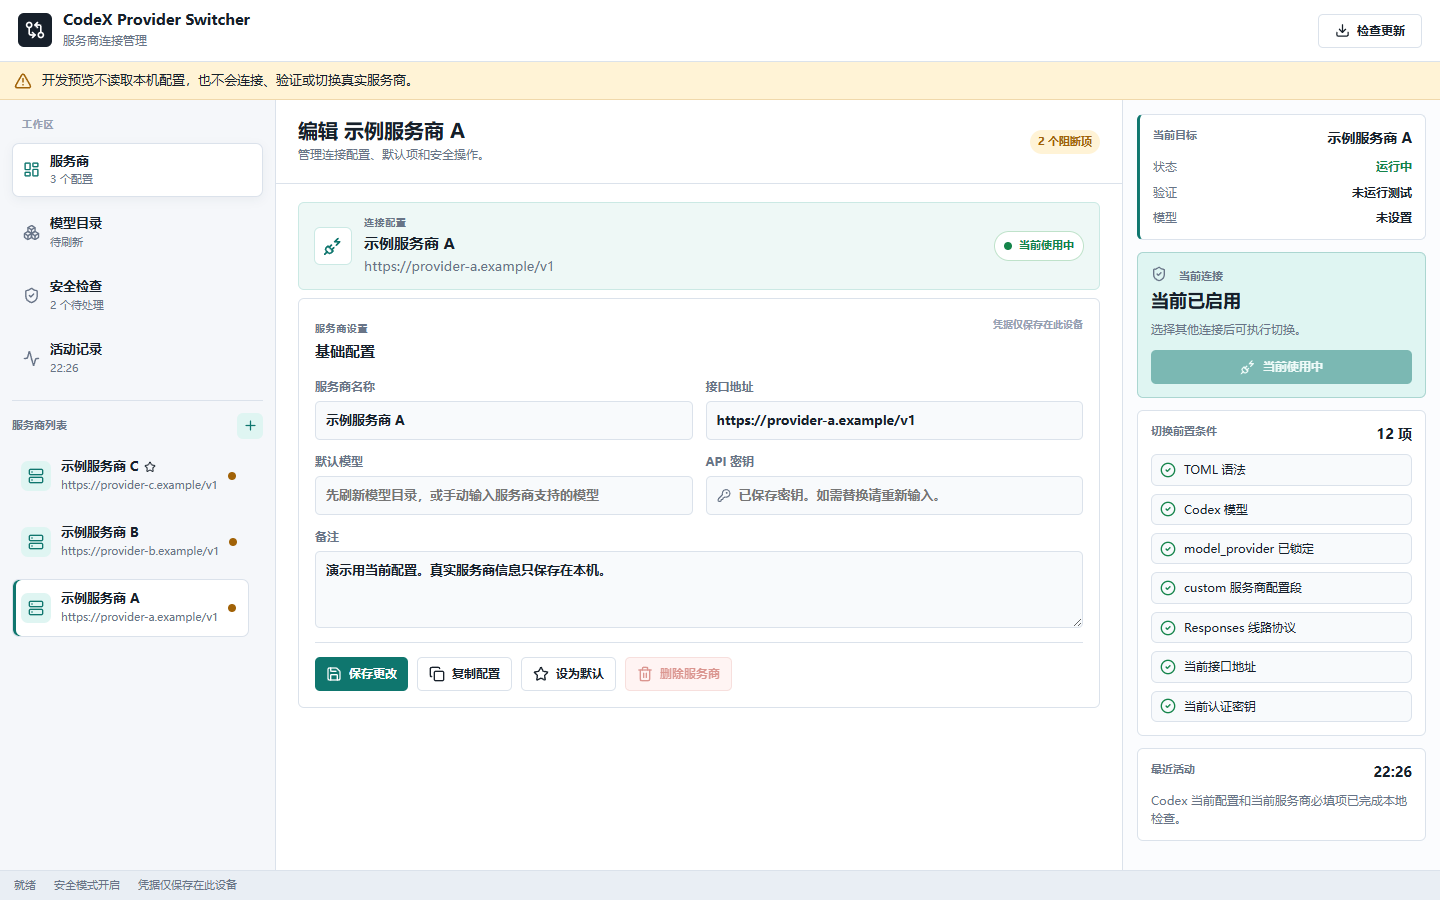
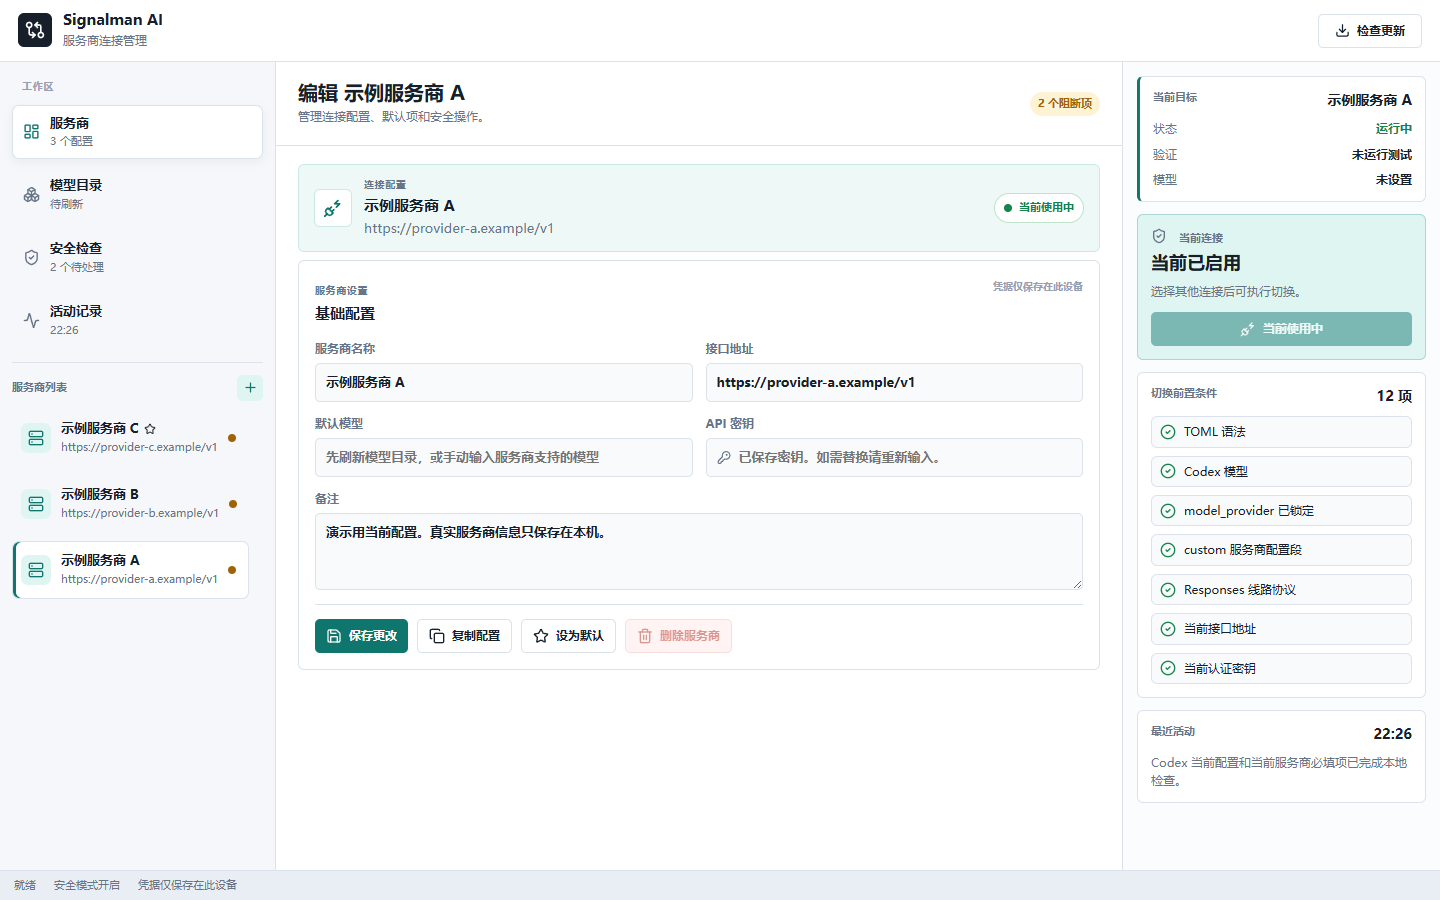
品牌更名为 Signalman AI 并准备 Store 再认证

diff --git a/index.html b/index.html
@@ -4,7 +4,7 @@
     <meta charset="UTF-8" />
     <link rel="icon" type="image/svg+xml" href="/favicon.svg" />
     <meta name="viewport" content="width=device-width, initial-scale=1.0" />
-    <title>CodeX Provider Switcher</title>
+    <title>Signalman AI</title>
   </head>
   <body>
     <div id="root"></div>

diff --git a/src/App.tsx b/src/App.tsx
@@ -474,7 +474,7 @@ function App() {
         <div className="brand-lockup">
           <span className="brand-mark"><GitCompareArrows size={20} /></span>
           <div>
-            <h1>CodeX Provider Switcher</h1>
+            <h1>Signalman AI</h1>
             <p>服务商连接管理</p>
           </div>
         </div>

diff --git a/src/adapter.ts b/src/adapter.ts
@@ -41,7 +41,7 @@ function isTrustedStoreUrl(value: string) {
 }
 
 function backendUnavailableMessage() {
-  return '应用的连接服务未能启动。请重新打开 CodeX Provider Switcher；如果问题持续，请查看故障排查。'
+  return '应用的连接服务未能启动。请重新打开 Signalman AI；如果问题持续，请查看故障排查。'
 }
 
 async function apiRequest<T>(path: string, init?: RequestInit): Promise<T> {

diff --git a/src-tauri/src/bin/local_backend.rs b/src-tauri/src/bin/local_backend.rs
@@ -18,7 +18,7 @@ const DEFAULT_PORT: u16 = 47832;
 
 fn main() {
     if let Err(err) = run() {
-        eprintln!("CodeX Provider Switcher local backend failed: {err}");
+        eprintln!("Signalman AI local backend failed: {err}");
         std::process::exit(1);
     }
 }
@@ -34,7 +34,7 @@ fn run() -> Result<(), Box<dyn std::error::Error>> {
 
     let listener = TcpListener::bind((host.as_str(), port))?;
     let dist_dir = resolve_dist_dir()?;
-    println!("CodeX Provider Switcher local backend: http://{host}:{port}/");
+    println!("Signalman AI local backend: http://{host}:{port}/");
     println!("Serving frontend from {}", dist_dir.display());
 
     for stream in listener.incoming() {

diff --git a/src-tauri/src/lib.rs b/src-tauri/src/lib.rs
@@ -11,6 +11,8 @@ use std::{
 };
 use thiserror::Error;
 
+// Keep the existing data directory so installed users retain DPAPI-protected
+// credentials, backups, and history when the visible product brand changes.
 const APP_DIR_NAME: &str = "CodeX Provider Switcher";
 const PROFILES_FILE: &str = "profiles.json";
 const ACTIVITY_FILE: &str = "activity.json";
@@ -2358,7 +2360,7 @@ pub fn run() {
             restore_latest_backup
         ])
         .run(tauri::generate_context!())
-        .expect("error while running CodeX Provider Switcher");
+        .expect("error while running Signalman AI");
 }
 
 #[cfg(test)]

diff --git a/docs/release/microsoft-store-first-submission.zh.md b/docs/release/microsoft-store-first-submission.zh.md
@@ -1,6 +1,6 @@
-# Microsoft Store 首次提交材料
+# Microsoft Store 认证提交材料
 
-这份材料用于把 `v0.7.0-alpha` 的 Store MSIX 提交到 Partner Center。它把能由项目确定的内容写死，把商业、法律和最终发布动作单独留给产品所有者确认。
+这份材料用于把 `v0.8.0-alpha` 的 Store MSIX 提交到 Partner Center。它把能由项目确定的内容写死，把商业、法律和最终发布动作单独留给产品所有者确认。
 
 ## 先分清两个系统
 
@@ -14,20 +14,20 @@ GitHub 和 Partner Center 是两条不同的交付链路。截图里的“未启
 | Partner Center 草稿、价格、年龄分级、认证状态 | Microsoft 账号后台 | 否 |
 | 最终提交认证和 Store 发布结果 | Microsoft Store | 否 |
 
-当前分支 `codex/store-listing-and-delivery` 已创建 PR #26，并已通过普通 CI 与 Store MSIX 构建检查。此次版本映射修复推送后，GitHub 会重新构建临时 artifact；Partner Center 的草稿可以继续保留，但此前两个校验失败的包应删除后再上传新包。
+Partner Center 的认证报告是拒绝原因的唯一依据。当前报告只列出 `10.1.1.1 Inaccurate Representation`：旧产品名称含有另一软件或服务的标题。`Signalman AI` 已在同一产品的“管理应用名称”页面预留；新提交必须使用该名称，并清理商店页面、MSIX 显示名和截图中的旧名称。
 
 ## 已确定的产品信息
 
 | 字段 | 值 |
 | --- | --- |
-| 产品名称 | CodeX Provider Switcher |
+| 产品名称 | Signalman AI |
 | 产品类型 | Windows 桌面应用 |
 | Store ID | `9P7PGV62WKK6` |
 | 包身份 | `ga626.CodexProviderSwitcher` |
-| 当前候选版本 | `0.7.0.0`（产品版本 `0.7.0-alpha`） |
+| 当前候选版本 | `0.8.0.0`（产品版本 `0.8.0-alpha`） |
 | 支持入口 | <https://github.com/ga626/codex-provider-switcher/issues> |
 | 隐私政策 | <https://github.com/ga626/codex-provider-switcher/blob/main/docs/user/privacy-policy.zh.md> |
-| 发布物 | GitHub Actions 的 `microsoft-store-msix-v0.7.0-alpha` artifact 中的 `.msix` |
+| 发布物 | GitHub Actions 的 `microsoft-store-msix-v0.8.0-alpha` artifact 中的 `.msix` |
 | 发布方式 | 免费、公开可发现；不做预购、内购或广告 |
 
 隐私政策链接要在本 PR 合并到 `main` 后再用于 Partner Center。当前候选 MSIX 的 SHA-256 记录在本机忽略目录的资产清单中，不把临时下载物提交进 Git。
@@ -36,17 +36,17 @@ GitHub 和 Partner Center 是两条不同的交付链路。截图里的“未启
 
 ### 简短说明
 
-在写入 Codex 配置前验证 provider，并用备份与恢复点安全切换。
+在写入本机配置前验证 provider，并用备份与恢复点安全切换。
 
 ### 完整说明
 
-CodeX Provider Switcher 是给 Windows 上 Codex 用户使用的本地 provider 管理工具。
+Signalman AI 是 Windows 上的本地 provider 管理工具。
 
-它把手工编辑 `config.toml` 和 `auth.json` 的过程收进一个桌面窗口：保存多个 provider 配置，刷新服务商实际返回的模型目录，在切换前运行一次真实的短时可用性测试，确认后自动创建恢复点，再执行切换。
+它把手工编辑本机 provider 配置的过程收进一个桌面窗口：保存多个 provider 配置，刷新服务商实际返回的模型目录，在切换前运行一次真实的短时可用性测试，确认后自动创建恢复点，再执行切换。
 
 主要能力：
 
-- 管理多个 Codex provider 配置；
+- 管理多个本地 provider 配置；
 - 从服务商刷新可见模型并选择当前模型；
 - 用一次短时、已认证的 Responses 请求检查地址、密钥、模型和协议是否能工作；
 - 写入前备份 Codex 配置，支持查看活动记录和恢复最近备份；
@@ -64,11 +64,11 @@ CodeX Provider Switcher 是给 Windows 上 Codex 用户使用的本地 provider 
 
 ### 搜索关键词
 
-Codex、provider、API、模型、配置切换、备份恢复、Windows、Responses
+AI、provider、API、模型、配置切换、备份恢复、Windows、Responses
 
 ### 当前版本发行说明
 
-首次提供 Microsoft Store MSIX 交付准备。Store 安装版使用与 Partner Center 绑定的包身份，由 Microsoft Store 管理签名和更新；应用不要求用户输入私钥或口令。provider 配置、模型目录、切换前可用性测试、备份恢复和本地活动记录保持可用。
+Signalman AI 首次提供 Microsoft Store MSIX 交付准备。Store 安装版使用与 Partner Center 绑定的既有包身份，由 Microsoft Store 管理签名和更新；应用不要求用户输入私钥或口令。provider 配置、模型目录、切换前可用性测试、备份恢复和本地活动记录保持可用。
 
 ## Partner Center 页面值
 
@@ -87,7 +87,7 @@ Codex、provider、API、模型、配置切换、备份恢复、Windows、Respon
 
 这个 MSIX 是完整桌面程序，因此保留 `runFullTrust`。它不是包验证失败的原因，而是 Partner Center 可能要求补充说明的审核项。若“提交选项”出现该字段，填入以下内容：
 
-> CodeX Provider Switcher is a packaged desktop application. It needs full-trust desktop access only to read and update the current Windows user's Codex configuration and credential files, protect provider credentials with Windows DPAPI, and create or restore user-requested local backups. These actions occur only after the user invokes them in the app. The app does not install drivers or services, request elevation, or access files outside the user's selected local Codex data.
+> Signalman AI is a packaged desktop application. It needs full-trust desktop access only to read and update the current Windows user's selected local provider configuration and credential files, protect provider credentials with Windows DPAPI, and create or restore user-requested local backups. These actions occur only after the user invokes them in the app. The app does not install drivers or services, request elevation, or access files outside the user's selected local provider data.
 
 不要为了消除警告删除此能力。删除后，应用无法按产品承诺读写本地 Codex 配置、保护凭据和执行备份恢复。
 
@@ -122,12 +122,13 @@ npm run store:listing-assets
 
 ## 发布前不可跳过的验证
 
-1. 先在 GitHub Actions 下载与 tag 对应的 MSIX，并运行 `npm run store:verify-package` 校验身份、架构、版本、入口文件和包内的 `runFullTrust` 声明。包内 `Identity Version` 的最后一段必须为 `0`；此前 `0.7.0.100` 的两个失败包不能重试，应删除。
-2. 在 Partner Center 预览产品名称、说明、截图、隐私和支持链接，确认没有把开发命令展示给普通用户。
-3. 提交认证后等待 Microsoft Store 完成认证；MSIX 的正式签名由 Store 完成，不需要购买证书或配置 PFX。
-4. 认证通过后，从 Microsoft Store 产品页安装，而不是从源码目录或 Actions 临时 artifact 安装。
-5. 启动、关闭、检查更新、provider 读取、模型刷新、可用性测试和备份恢复各验收一次；确认没有 CMD 窗口或后台常驻进程。
-6. 只有普通用户路径验收通过，状态才可以写成“产品已交付”。
+1. 先运行 Windows App Certification Kit，并保存技术检查结果；它不能替代商店内容审核。
+2. 在 GitHub Actions 下载与 tag 对应的 MSIX，并运行 `npm run store:verify-package` 校验身份、架构、版本、入口文件和包内的 `runFullTrust` 声明。包内 `Identity Version` 的最后一段必须为 `0`；新包必须高于此前已提交的 Store 版本。
+3. 在 Partner Center 预览产品名称、说明、截图、隐私和支持链接，确认所有商店可见材料使用 Signalman AI，没有把开发命令展示给普通用户。
+4. 提交认证后等待 Microsoft Store 完成认证；MSIX 的正式签名由 Store 完成，不需要购买证书或配置 PFX。
+5. 认证通过后，从 Microsoft Store 产品页安装，而不是从源码目录或 Actions 临时 artifact 安装。
+6. 启动、关闭、检查更新、provider 读取、模型刷新、可用性测试和备份恢复各验收一次；确认没有 CMD 窗口或后台常驻进程。
+7. 只有普通用户路径验收通过，状态才可以写成“产品已交付”。
 
 ## 仍需用户完成的动作
 

diff --git a/docs/reference/brand-and-compatibility.zh.md b/docs/reference/brand-and-compatibility.zh.md
@@ -1,0 +1,15 @@
+# 品牌与兼容性边界
+
+当前对外产品名是 **Signalman AI**。所有普通用户可见位置必须使用这个名称：桌面窗口、安装器、MSIX 显示名、商店一览、截图、README、支持页和新发布资产。
+
+以下标识不是展示品牌，必须保留以保证升级连续性：
+
+| 标识 | 原因 | 允许修改的条件 |
+| --- | --- | --- |
+| Store ID `9P7PGV62WKK6` | 已关联 Partner Center 产品 | 不修改 |
+| MSIX Identity `ga626.CodexProviderSwitcher` 与 Application ID `CodeXProviderSwitcher` | Store 分配的包身份 | 仅在 Partner Center 明确重新分配身份时修改 |
+| `codex-provider-switcher.exe`、仓库 slug 与 updater URL | 已安装版本和更新链路的技术标识 | 必须先设计旧版本升级路径并验证 |
+| `%LOCALAPPDATA%\CodeX Provider Switcher` | 已存放 DPAPI 保护的资料、备份和活动记录 | 必须先完成可回滚的数据迁移并验证 |
+| `D:\Software\CodeX Provider Switcher` | 维护者本机候选安装的既有位置 | 仅在迁移安装目录并验证日常入口后修改 |
+
+历史发布说明和历史考古记录保留当时的真实名称，不倒改。任何新产品材料不得把上述兼容性标识当作产品名称展示。

diff --git a/docs/release/release-notes-0.8.0-alpha.md b/docs/release/release-notes-0.8.0-alpha.md
@@ -1,0 +1,12 @@
+# Signalman AI 0.8.0-alpha 发布说明
+
+## 本次变化
+
+- 产品显示名称从旧名称更新为 Signalman AI，桌面窗口、安装器、MSIX 显示名、发布资产、README 和 Store 文案同步更新。
+- Microsoft Store 的新候选包版本为 `0.8.0.0`，高于此前候选版本；Store ID 和包身份保持不变。
+- 保留已有本机资料目录，升级不会丢失 DPAPI 保护的密钥、恢复点或活动记录。
+- 修复维护者刷新本机候选安装时，正在运行的桌面进程占用安装文件的问题。
+
+## 发布状态
+
+这是待认证的候选版本，不等于 Microsoft Store 已交付。认证通过后，必须从 Store 安装并完成启动、切换、恢复和更新验收。

diff --git a/docs/user/installation.zh.md b/docs/user/installation.zh.md
@@ -1,13 +1,13 @@
 # 安装、更新与卸载
 
-`CodeX Provider Switcher` 是 Windows alpha 软件。Microsoft Store 是下一次正式发布的优先渠道，但首个 Store 版本尚未通过认证；当前日常使用仍以 GitHub Release 中标为 Latest 的版本为准，不要把源码目录或临时构建当成稳定安装版。
+`Signalman AI` 是 Windows alpha 软件。Microsoft Store 是下一次正式发布的优先渠道，但当前 Store 候选包尚未通过认证；当前日常使用仍以 GitHub Release 中标为 Latest 的版本为准，不要把源码目录或临时构建当成稳定安装版。
 
 ## 安装
 
 1. 打开 [最新发布版](https://github.com/ga626/codex-provider-switcher/releases/latest)。
 2. 下载名称带 `setup.exe` 的 Windows 安装包和同名 `.sha256` 文件。
 3. 双击安装包，按安装向导完成安装。
-4. 从开始菜单或桌面图标打开 `CodeX Provider Switcher`。
+4. 从开始菜单或桌面图标打开 `Signalman AI`。
 
 正常情况下会出现一个桌面窗口：不需要浏览器、不需要输入端口、不应保留 CMD 窗口。若安装器被 Windows 拦截或窗口无法打开，先看 [排错指南](troubleshooting.zh.md)。
 
@@ -27,7 +27,7 @@
 
 ## 卸载与数据保留
 
-升级和卸载只会替换或移除程序文件，不会自动删除 `%LOCALAPPDATA%\CodeX Provider Switcher` 中的 provider 目录、备份和本地状态。这是为了让受控升级、重新安装后仍能恢复。保存的 API 密钥使用当前 Windows 用户的凭据保护，不会以明文保存在该目录。
+升级和卸载只会替换或移除程序文件，不会自动删除已有的 provider 目录、备份和本地状态。这是为了让受控升级、重新安装后仍能恢复。保存的 API 密钥使用当前 Windows 用户的凭据保护，不会以明文保存在该目录。
 
 如果你确实要清空数据，请先在应用中确认恢复点或自行备份，再手动删除该目录。不要把其中的文件发送到公开 Issue。
 

diff --git a/docs/user/troubleshooting.zh.md b/docs/user/troubleshooting.zh.md
@@ -4,7 +4,7 @@
 
 ## 安装后窗口没有打开
 
-1. 从开始菜单或桌面图标启动 `CodeX Provider Switcher`，不要直接运行源码脚本。
+1. 从开始菜单或桌面图标启动 `Signalman AI`，不要直接运行源码脚本。
 2. 确认下载的是 Release 中带 `setup.exe` 的安装包，而不是源码 zip。
 3. 确认 Windows WebView2 Runtime 可用。多数新版 Windows 已内置；缺失时安装 Microsoft Edge WebView2 Evergreen Runtime。
 4. 若安装器被拦截，记录 Windows 显示的提示和版本号，不要下载来源不明的替代安装包。
@@ -39,7 +39,7 @@
 
 ## fallback 诊断入口
 
-Release 附带的 fallback zip 只用于排错和本地 Web 诊断，不是推荐的日常入口。解压后双击 `CodeXProviderSwitcher.cmd`，再访问：
+Release 附带的 fallback zip 只用于排错和本地 Web 诊断，不是推荐的日常入口。解压后双击 `SignalmanAI.cmd`，再访问：
 
 ```text
 http://127.0.0.1:47832/
@@ -48,7 +48,7 @@ http://127.0.0.1:47832/
 停止 fallback 后端：
 
 ```powershell
-powershell -NoProfile -ExecutionPolicy Bypass -File .\CodeXProviderSwitcher.ps1 -Stop
+powershell -NoProfile -ExecutionPolicy Bypass -File .\SignalmanAI.ps1 -Stop
 ```
 
 ## 报告问题时请提供